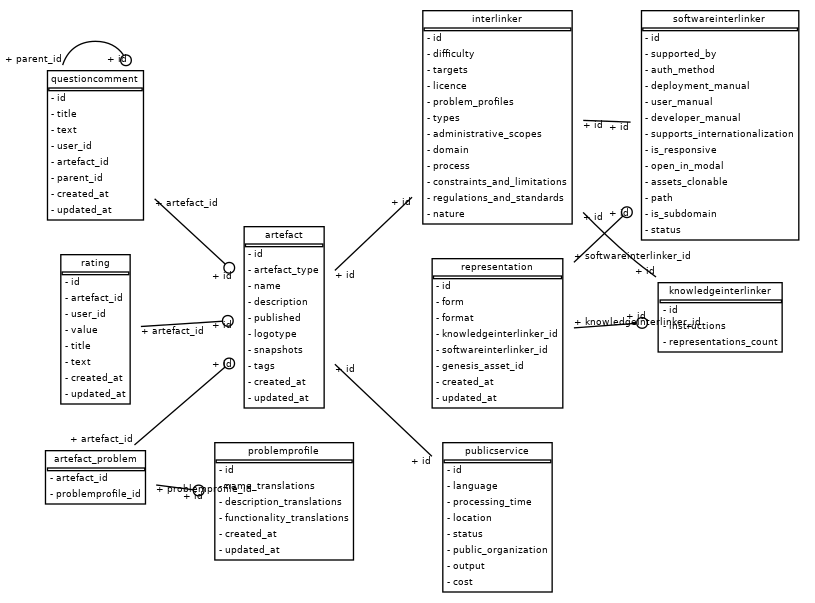
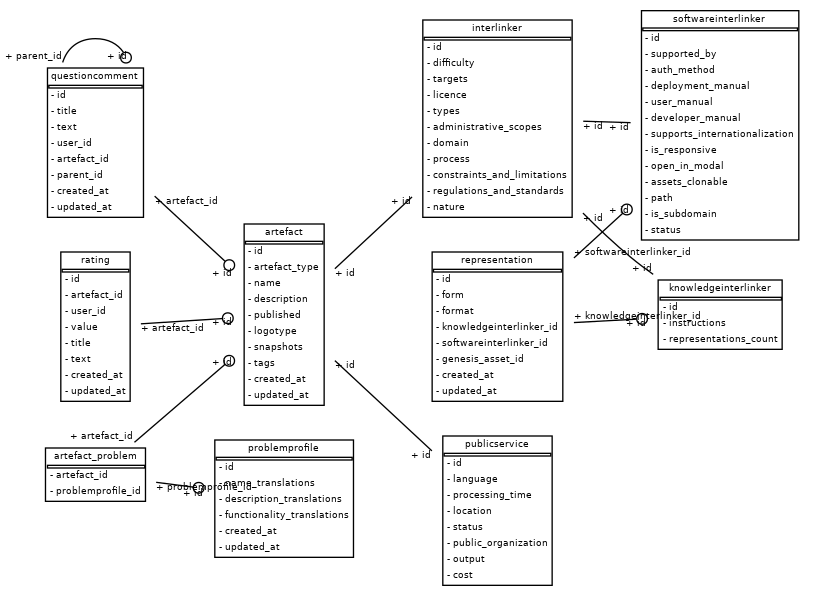
Problem profiles and interlinkers relation

diff --git a/catalogue/app/api/api_v1/problemprofiles.py b/catalogue/app/api/api_v1/problemprofiles.py
@@ -50,7 +50,7 @@ def create_problemprofile(
 def update_problemprofile(
     *,
     db: Session = Depends(deps.get_db),
-    id: uuid.UUID,
+    id: str,
     problemprofile_in: schemas.ProblemProfilePatch,
     current_user: dict = Depends(deps.get_current_active_user),
 ) -> Any:
@@ -70,7 +70,7 @@ def update_problemprofile(
 def read_problemprofile(
     *,
     db: Session = Depends(deps.get_db),
-    id: uuid.UUID,
+    id: str,
     current_user: Optional[dict] = Depends(deps.get_current_user),
 ) -> Any:
     """
@@ -82,6 +82,22 @@ def read_problemprofile(
     if not crud.problemprofile.can_read(current_user, problemprofile):
         raise HTTPException(status_code=403, detail="Not enough permissions")
     return problemprofile
+
+@router.get("/{id}/interlinkers", response_model=List[schemas.ArtefactOut])
+def get_interlinkers(
+    *,
+    db: Session = Depends(deps.get_db),
+    id: str,
+    current_user: Optional[dict] = Depends(deps.get_current_user),
+) -> Any:
+    """
+    Get interlinkers for problem profile
+    """
+    if (problemprofile := crud.problemprofile.get(db=db, id=id)):
+        print(problemprofile.artefacts)
+        return problemprofile.artefacts
+    raise HTTPException(status_code=404, detail="ProblemProfile not found")
+
 
 @router.get("/get_by_name/{name}", response_model=schemas.ProblemProfileOut)
 def read_problemprofile(
@@ -102,7 +118,7 @@ def read_problemprofile(
 def delete_problemprofile(
     *,
     db: Session = Depends(deps.get_db),
-    id: uuid.UUID,
+    id: str,
     current_user: dict = Depends(deps.get_current_active_user),
 ) -> Any:
     """

diff --git a/catalogue/app/interlinkers/crud.py b/catalogue/app/interlinkers/crud.py
@@ -8,6 +8,7 @@ from app.schemas import InterlinkerCreate, SoftwareInterlinkerCreate, KnowledgeI
 from app.general.utils.CRUDBase import CRUDBase
 from sqlalchemy import or_, func
 from app.exceptions import CrudException
+from app.problemprofiles.crud import exportCrud as problems_crud
 
 class CRUDInterlinker(CRUDBase[Interlinker, InterlinkerCreate, InterlinkerPatch]):
     def get_by_name(self, db: Session, name: str) -> Optional[Interlinker]:
@@ -41,7 +42,6 @@ class CRUDInterlinker(CRUDBase[Interlinker, InterlinkerCreate, InterlinkerPatch]
                 "difficulty": interlinker.difficulty,
                 "targets": interlinker.targets,
                 "licence": interlinker.licence,
-                "problem_profiles": interlinker.problem_profiles,
                 "types": interlinker.types,
                 # "related_interlinkers":interlinker.related_interlinkers,
                 "administrative_scopes": interlinker.administrative_scopes,
@@ -71,6 +71,12 @@ class CRUDInterlinker(CRUDBase[Interlinker, InterlinkerCreate, InterlinkerPatch]
             data["instructions"] = interlinker.instructions
             db_obj = KnowledgeInterlinker(**data)
         db.add(db_obj)
+        db.commit()
+
+        for id in interlinker.problem_profiles:
+            print(id)
+            problem = problems_crud.get(db=db, id=id)
+            db_obj.problemprofiles.append(problem)
         db.commit()
         db.refresh(db_obj)
         return db_obj

diff --git a/catalogue/app/artefacts/schemas.py b/catalogue/app/artefacts/schemas.py
@@ -2,7 +2,6 @@ import uuid
 from typing import List, Optional
 from datetime import datetime
 
-from app.general.db.base_class import Base as BaseModel
 from pydantic import validator, BaseModel as PydanticBaseModel
 from app.problemprofiles.schemas import ProblemProfileOut
 from app.questioncomments.schemas import QuestionCommentOut
@@ -16,7 +15,7 @@ class ArtefactBase(PydanticBaseModel):
     snapshots: Optional[List[str]]
 
 class ArtefactCreate(ArtefactBase):
-    problemprofiles: Optional[List[uuid.UUID]]
+    problem_profiles: Optional[List[str]]
 
 
 class ArtefactORM(ArtefactBase):
@@ -27,6 +26,14 @@ class ArtefactORM(ArtefactBase):
     class Config:
         orm_mode = True
 
+class ProblemProfile(PydanticBaseModel):
+    id: str
+    name: str
+    description: str
+
+    class Config:
+        orm_mode = True
+
 class ArtefactOut(ArtefactORM):
     artefact_type: str
-    problemprofiles: List[ProblemProfileOut]
+    problemprofiles: List[ProblemProfile]

diff --git a/catalogue/app/interlinkers/models.py b/catalogue/app/interlinkers/models.py
@@ -34,7 +34,6 @@ class Interlinker(Artefact):
     difficulty = Column(String)
     targets = Column(ARRAY(String), default=list)
     licence = Column(String)
-    problem_profiles = Column(ARRAY(String), default=list)
     types = Column(ARRAY(String), default=list)
     # related_interlinkers
     administrative_scopes = Column(ARRAY(String), default=list)

diff --git a/catalogue/app/interlinkers/schemas.py b/catalogue/app/interlinkers/schemas.py
@@ -29,7 +29,6 @@ class BaseInterlinkerBase(ArtefactBase):
     difficulty: Difficulties
     targets: Optional[List[Targets]]
     licence: Licences
-    problem_profiles: List[str]
     types: Optional[List[InterlinkerTypes]]
     related_interlinkers: Optional[List[str]]
     administrative_scopes: Optional[List[AdministrativeScopes]]
